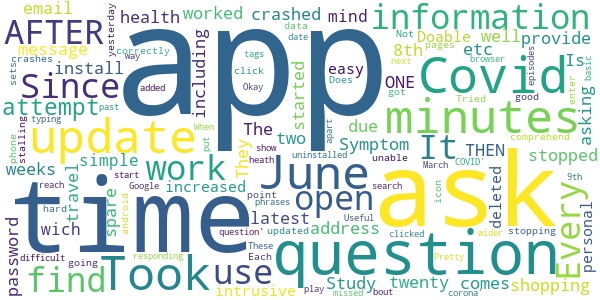
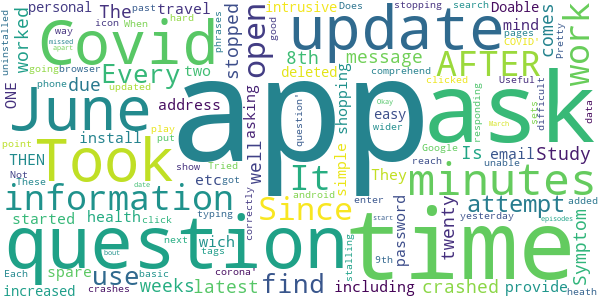
Analysis for the custom apps of the Dutch store

diff --git a/data/data_community/reports/report_2020_6_14.md b/data/data_community/reports/report_2020_6_14.md
@@ -500,6 +500,8 @@ The COVID Symptom Study app has been installed by more than **1000000** times. A
 <img src="resources/com.joinzoe.covid_zoe___0.14/5_star_reviews_wordcloud.png" alt="com.joinzoe.covid_zoe 5 reviews"/>
 </p>
 
+> Easy and quick<br> :date: __2020-06-14 19:16:28__
+
 > Very good<br> :date: __2020-06-14 18:54:40__
 
 > Very straightforward.<br> :date: __2020-06-14 18:47:34__
@@ -518,8 +520,6 @@ The COVID Symptom Study app has been installed by more than **1000000** times. A
 
 > Easy to use and comprehensive.<br> :date: __2020-06-14 16:13:48__
 
-> Takes hardly any time to complete every day.<br> :date: __2020-06-14 16:07:55__
-
 
 
 #### 4-star reviews
@@ -527,6 +527,8 @@ The COVID Symptom Study app has been installed by more than **1000000** times. A
 <p align="center">
 <img src="resources/com.joinzoe.covid_zoe___0.14/4_star_reviews_wordcloud.png" alt="com.joinzoe.covid_zoe 4 reviews"/>
 </p>
+
+> A worthy cause. App is generally easy to use, but not super easy.<br> :date: __2020-06-14 19:25:14__
 
 > The app works OK. I am running it on an Android emulator on my PC as I don't have a smart phone. It would be more convenient to have a Windows version.<br> :date: __2020-06-14 15:10:36__
 
@@ -545,8 +547,6 @@ The COVID Symptom Study app has been installed by more than **1000000** times. A
 > Easy to use<br> :date: __2020-06-13 15:42:49__
 
 > Simple to use. Once set up, takes a couple minutes a day.<br> :date: __2020-06-13 12:30:53__
-
-> Quick to install and set up and takes seconds each day to add your personal update<br> :date: __2020-06-13 11:49:22__
 
 
 

diff --git a/data/data_community/reports/resources/com.joinzoe.covid_zoe___0.14/report.md b/data/data_community/reports/resources/com.joinzoe.covid_zoe___0.14/report.md
@@ -199,6 +199,8 @@ The COVID Symptom Study app has been installed by more than **1000000** times. A
 <img src="5_star_reviews_wordcloud.png" alt="com.joinzoe.covid_zoe 5 reviews"/>
 </p>
 
+> Easy and quick<br> :date: __2020-06-14 19:16:28__
+
 > Very good<br> :date: __2020-06-14 18:54:40__
 
 > Very straightforward.<br> :date: __2020-06-14 18:47:34__
@@ -217,8 +219,6 @@ The COVID Symptom Study app has been installed by more than **1000000** times. A
 
 > Easy to use and comprehensive.<br> :date: __2020-06-14 16:13:48__
 
-> Takes hardly any time to complete every day.<br> :date: __2020-06-14 16:07:55__
-
 
 
 #### 4-star reviews
@@ -226,6 +226,8 @@ The COVID Symptom Study app has been installed by more than **1000000** times. A
 <p align="center">
 <img src="4_star_reviews_wordcloud.png" alt="com.joinzoe.covid_zoe 4 reviews"/>
 </p>
+
+> A worthy cause. App is generally easy to use, but not super easy.<br> :date: __2020-06-14 19:25:14__
 
 > The app works OK. I am running it on an Android emulator on my PC as I don't have a smart phone. It would be more convenient to have a Windows version.<br> :date: __2020-06-14 15:10:36__
 
@@ -244,8 +246,6 @@ The COVID Symptom Study app has been installed by more than **1000000** times. A
 > Easy to use<br> :date: __2020-06-13 15:42:49__
 
 > Simple to use. Once set up, takes a couple minutes a day.<br> :date: __2020-06-13 12:30:53__
-
-> Quick to install and set up and takes seconds each day to add your personal update<br> :date: __2020-06-13 11:49:22__
 
 
 
